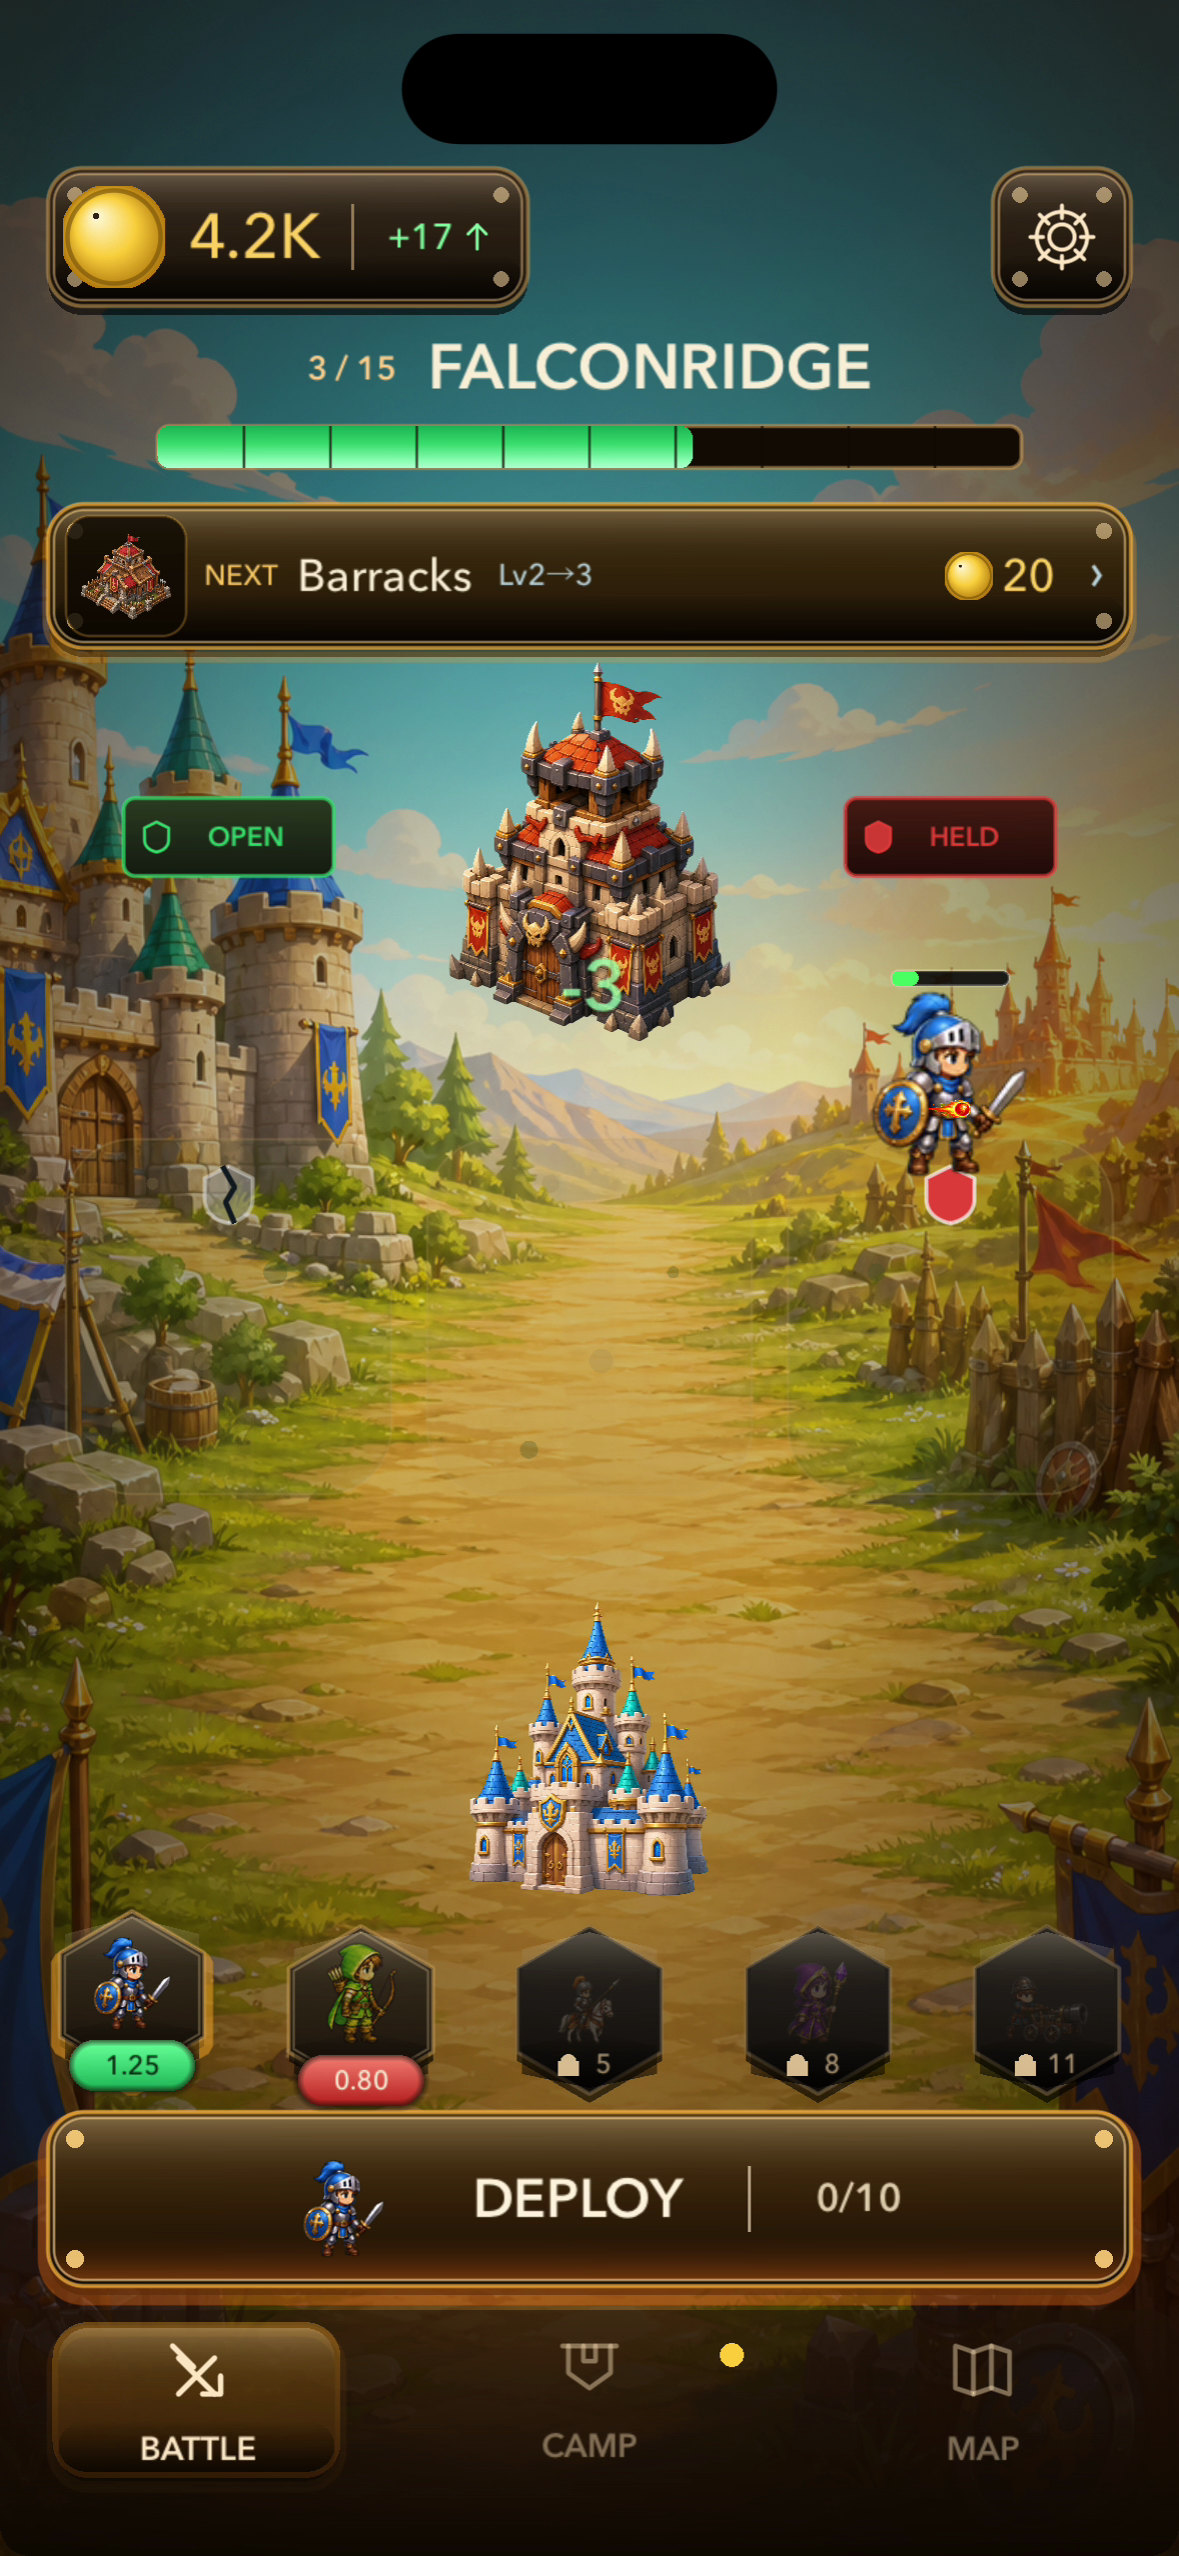
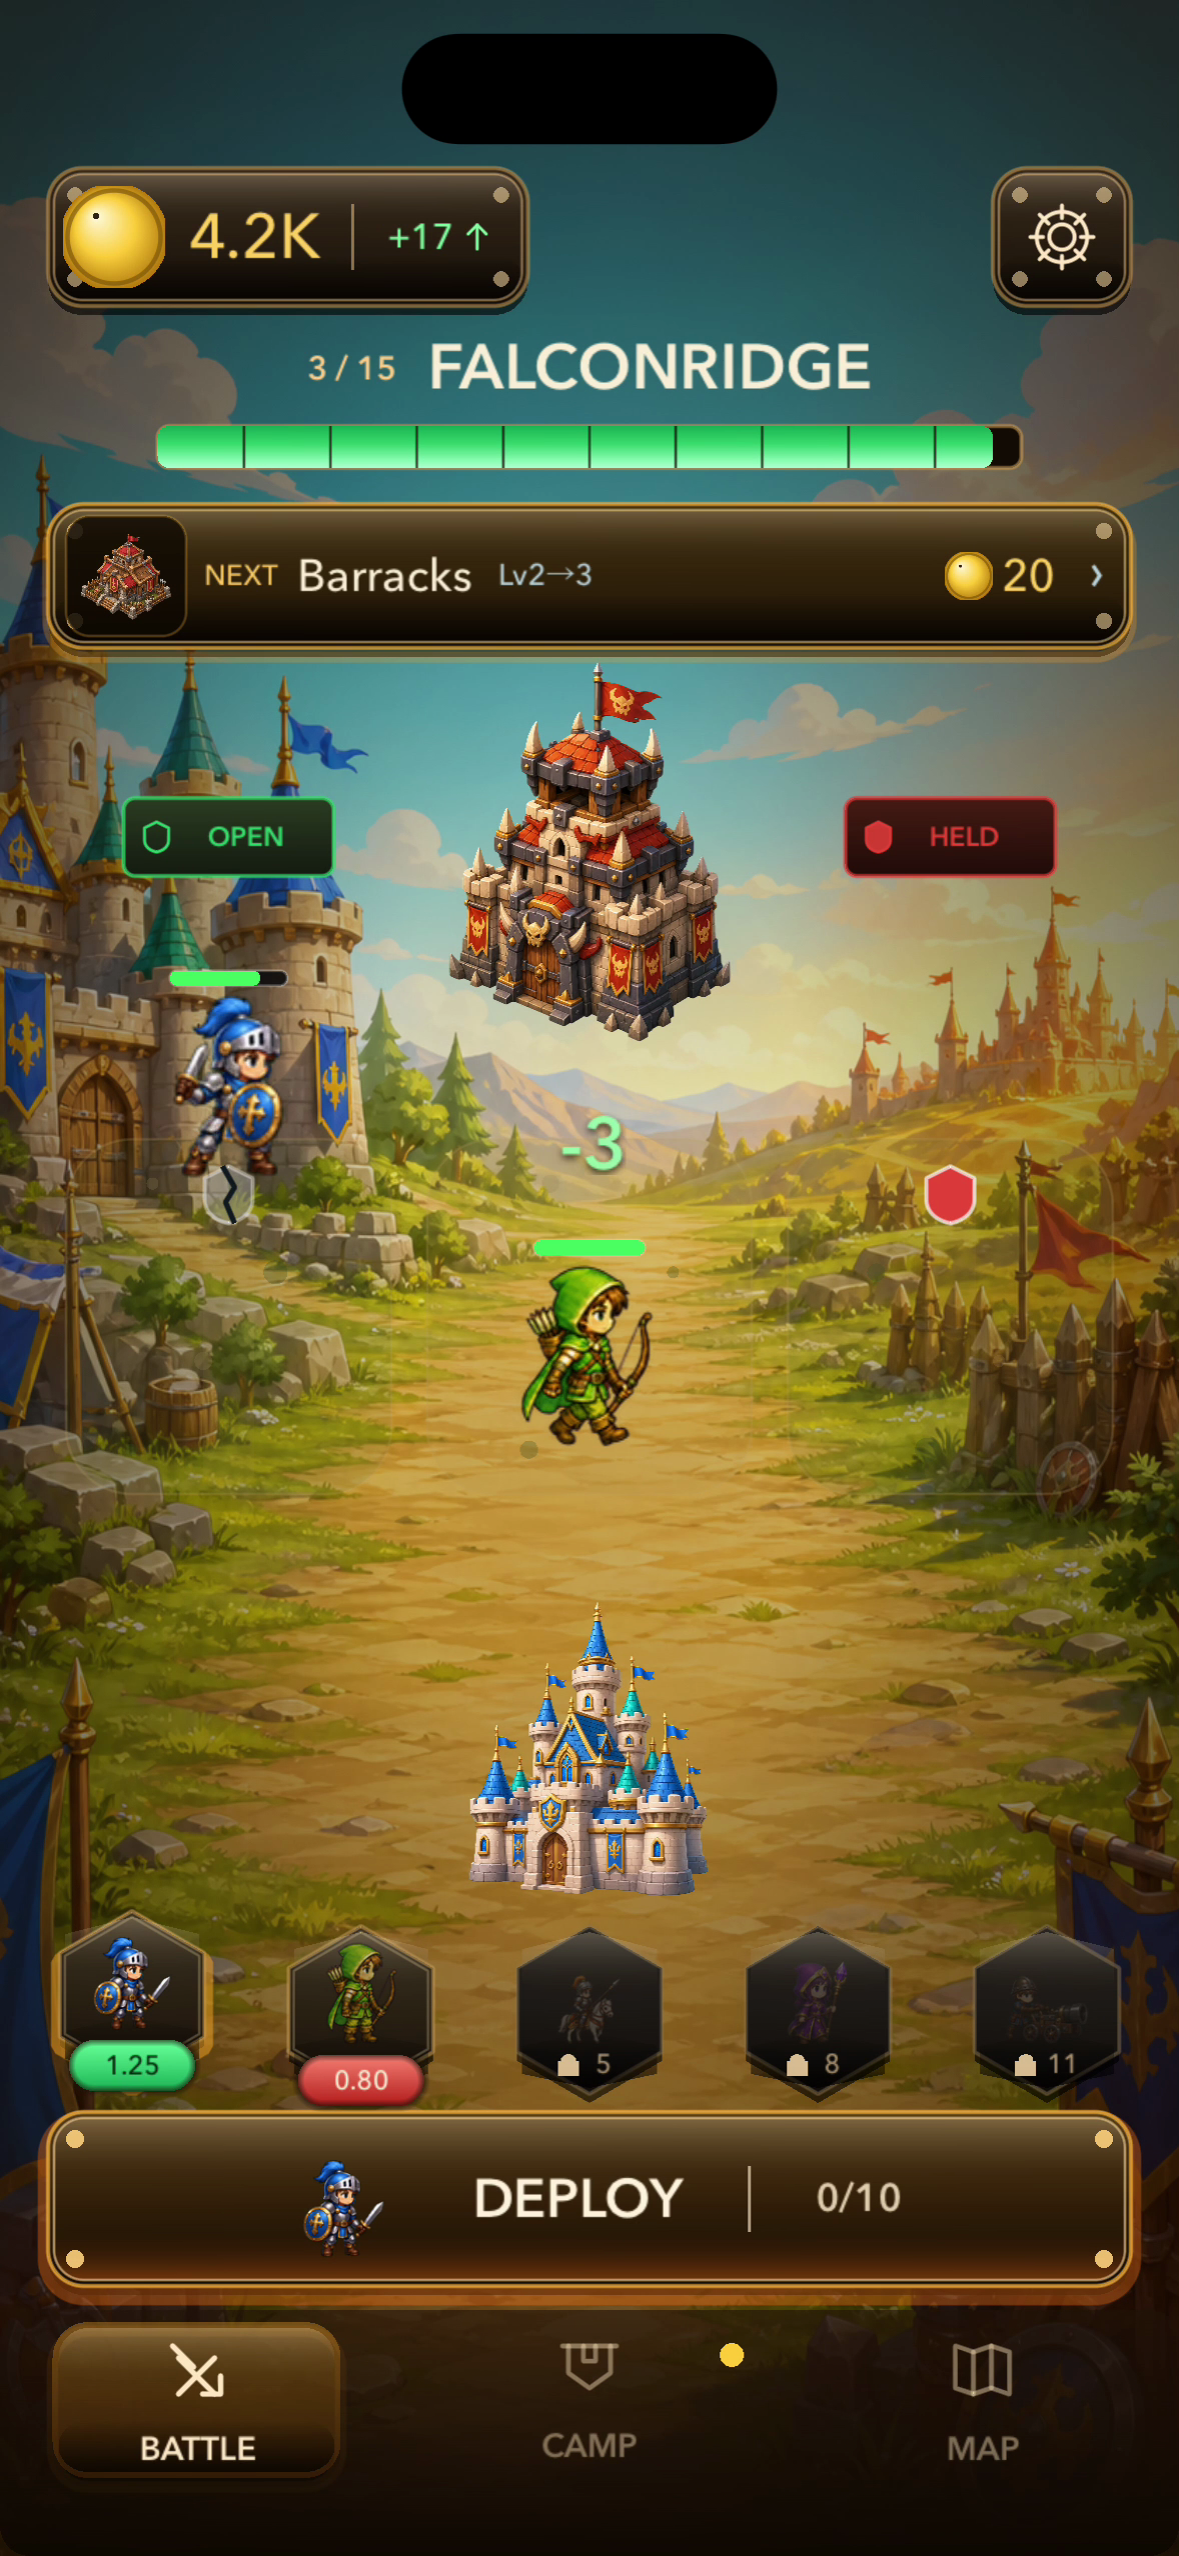
fix: clear damage numbers below city

diff --git a/Pyxis/BattleScene.swift b/Pyxis/BattleScene.swift
@@ -2285,7 +2285,7 @@ final class BattleScene: SKScene, LayoutGateLifecycleHandling, SceneLayoutRefres
         )
         label.horizontalAlignmentMode = .center
         label.verticalAlignmentMode = .center
-        label.position = CGPoint(x: position.x, y: position.y + 26)
+        label.position = CGPoint(x: position.x, y: position.y - 20)
         label.zPosition = EffectStyle.floatingFeedbackZ
         label.alpha = 0
         label.setScale(0.7)

diff --git a/PyxisTests/BattleSceneTests.swift b/PyxisTests/BattleSceneTests.swift
@@ -2197,6 +2197,8 @@ struct BattleSceneTests {
         let damageLabel = try #require(
             scene.childNode(withName: "//floatingFeedback") as? SKLabelNode
         )
+        let enemyFrame = try #require(scene.enemyCityFrameForTesting)
+        #expect(damageLabel.frame.maxY <= enemyFrame.minY - 4)
         #expect(damageLabel.fontSize == 22)
         #expect(
             damageLabel.attributedText?.attribute(
